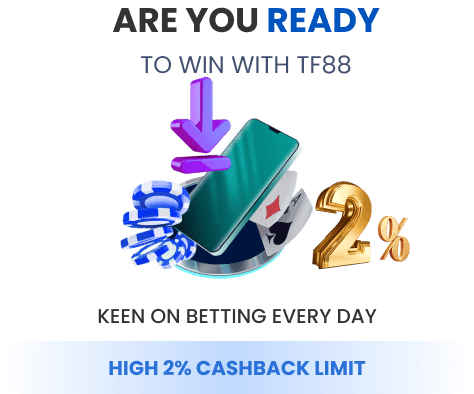
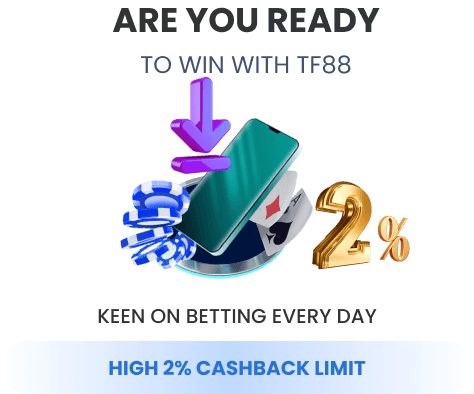
feat: [vnm h5] login screen img & pack apk ver 1.0.3

Changed region(s): [[0.5612, 0.0, 0.7975, 0.0914]]

diff --git a/vnm-static-h5/src/pages/LoginPage.vue b/vnm-static-h5/src/pages/LoginPage.vue
@@ -641,7 +641,7 @@ export default defineComponent({
     img {
       display: block;
       width: 100%;
-      max-width: 360px;
+      max-width: 290px;
     }
 
     .login-text {
